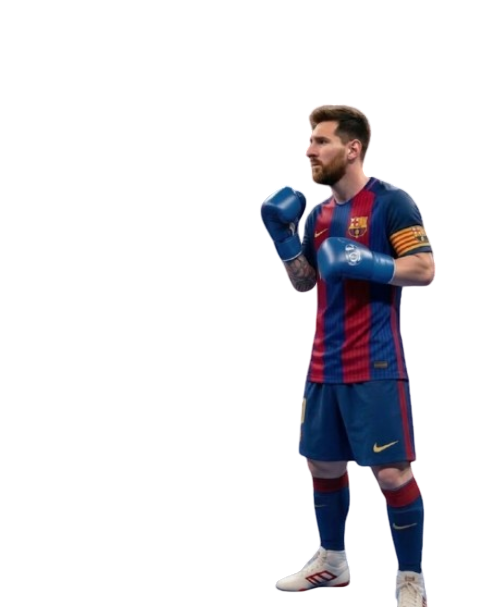
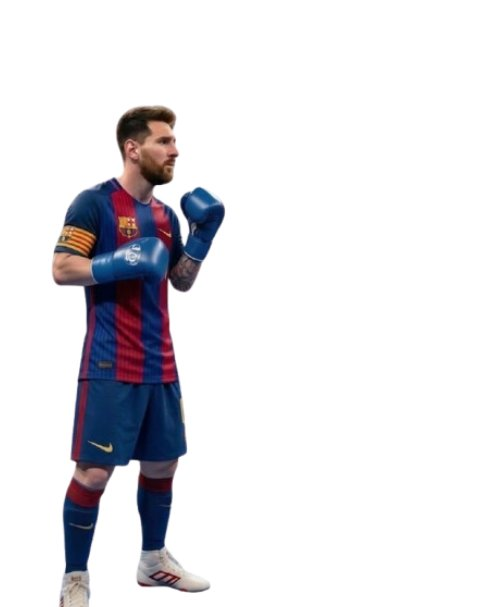
bla bla

diff --git a/core/src/main/java/entity/Fighter.java b/core/src/main/java/entity/Fighter.java
@@ -1,36 +1,45 @@
 package entity;
 
+import com.badlogic.gdx.graphics.Texture;
+import com.badlogic.gdx.graphics.g2d.SpriteBatch;
 import util.Constants;
-import util.Constants.Action;
-import util.Constants.Side;
 
 public class Fighter {
-    private Side side;
-    private Action currentState;
-    private float hp, mana;
+    private Constants.Side side;
+    private Texture texture;
+    private float x, y;
 
-    public Fighter(Side side) {
+    public Fighter(Constants.Side side, String imgPath) {
         this.side = side;
-        this.hp = Constants.MAX_HP; // 20 máu
-        this.mana = 0;
-        this.currentState = Action.IDLE;
+        this.texture = new Texture(imgPath);
+        this.y = Constants.GROUND_Y; // 100f từ Constants
+
+        // P1 bên trái (25% màn hình), P2 bên phải (75% màn hình)
+        if (side == Constants.Side.LEFT) {
+            this.x = Constants.APP_WIDTH * 0.25f - Constants.CHAR_SIZE / 2;
+        } else {
+            this.x = Constants.APP_WIDTH * 0.75f - Constants.CHAR_SIZE / 2;
+        }
     }
 
-    public void update(float delta) {
-        // Tạm thời để trống cho Dev 2 làm logic đếm ngược thời gian đấm
+    public void draw(SpriteBatch batch) {
+        // Nếu là P2 (Bên PHẢI) thì lật ngang ảnh (flipX = true) để nhìn sang TRÁI
+        boolean flipX = (side == Constants.Side.RIGHT);
+
+        // Vẽ với đầy đủ tham số để dùng được tính năng lật ảnh
+        batch.draw(texture,
+            x, y,
+            Constants.CHAR_SIZE, Constants.CHAR_SIZE, // 200x200
+            0, 0,
+            texture.getWidth(), texture.getHeight(),
+            flipX, false);
     }
 
-    public void performAction(Action action) {
-        this.currentState = action;
-        System.out.println(side + " thực hiện: " + action);
+    public void dispose() {
+        texture.dispose();
     }
 
-    public void takeDamage(float damage) {
-        this.hp -= damage;
-        if (this.hp < 0) this.hp = 0;
+    public void performAction(Constants.Action action) {
     }
-
-    // Getters để vẽ UI và tính va chạm
-    public float getHp() { return hp; }
-    public Action getCurrentState() { return currentState; }
 }
+

diff --git a/core/src/main/java/screen/GameScreen.java b/core/src/main/java/screen/GameScreen.java
@@ -1,13 +1,48 @@
 package screen;
 
-import com.badlogic.gdx.Input;
+import com.badlogic.gdx.Gdx;
 import com.badlogic.gdx.ScreenAdapter;
-import controller.P1Controller;
-import controller.P2Controller;
+import com.badlogic.gdx.graphics.GL20;
+import com.badlogic.gdx.graphics.Texture;
+import main.Main;
 import entity.Fighter;
-import input.InputController;
 import util.Constants;
 
 public class GameScreen extends ScreenAdapter {
+    private final Main game;
+    private Texture background;
+    private Fighter p1, p2;
 
+    public GameScreen(Main game) {
+        this.game = game;
+        // Load lại cái nền xịn của ông giáo
+        background = new Texture("images/background/background.jpg");
+
+        // Khởi tạo 2 Ronaldo đối đầu
+        p1 = new Fighter(Constants.Side.LEFT, "images/p1/idle.png");
+        p2 = new Fighter(Constants.Side.RIGHT, "images/p2/idle.png");
+    }
+
+    @Override
+    public void render(float delta) {
+        // Xóa màn hình
+        Gdx.gl.glClear(GL20.GL_COLOR_BUFFER_BIT);
+
+        game.batch.begin();
+        // 1. Vẽ nền trước (Phủ kín màn hình 1280x720)
+        game.batch.draw(background, 0, 0, Constants.APP_WIDTH, Constants.APP_HEIGHT);
+
+        // 2. Vẽ 2 võ sĩ (Tự động đứng đúng chỗ và đối mặt nhau)
+        p1.draw(game.batch);
+        p2.draw(game.batch);
+
+        game.batch.end();
+    }
+
+    @Override
+    public void dispose() {
+        background.dispose();
+        p1.dispose();
+        p2.dispose();
+    }
 }

diff --git a/core/src/main/java/controller/FighterController.java b/core/src/main/java/controller/FighterController.java
@@ -1,5 +1,38 @@
 package controller;
 
-public abstract class FighterController {
+import entity.Fighter;
+import input.InputController;
+import util.Constants;
+import util.Constants.Action;
 
+public abstract class FighterController {
+    protected Fighter fighter;
+    protected InputController input;
+
+    public FighterController(Fighter fighter, InputController input) {
+        this.fighter = fighter;
+        this.input = input;
+    }
+
+    public void update(float delta) {
+        // 1. Cập nhật trạng thái input (đọc phím hoặc nhận dữ liệu từ Camera)
+        input.update(delta);
+
+        // 2. Kiểm tra lệnh và ra lệnh cho Fighter thực hiện
+        // Thứ tự ưu tiên có thể tùy chỉnh: Skill > Punch > Kick...
+        if (input.skill()) {
+            fighter.performAction(Action.SKILL);
+        } else if (input.punch()) {
+            fighter.performAction(Action.PUNCH);
+        } else if (input.kick()) {
+            fighter.performAction(Action.KICK);
+        } else if (input.duck()) {
+            fighter.performAction(Action.DUCK);
+        } else if (input.block()) {
+            fighter.performAction(Action.BLOCK);
+        }
+
+        // 3. Reset trạng thái input để tránh việc bấm 1 lần mà đấm mãi mãi
+        input.reset();
+    }
 }

diff --git a/core/src/main/java/input/KeyboardInput.java b/core/src/main/java/input/KeyboardInput.java
@@ -1,6 +1,28 @@
 package input;
 
-import input.InputController;
+import com.badlogic.gdx.Gdx;
+import com.badlogic.gdx.Input;
 
-public class KeyboardInput  {
+public class KeyboardInput implements InputController {
+    private int kP, kK, kD, kB, kS;
+    private boolean isP, isK, isD, isB, isS;
+
+    public KeyboardInput(int p, int k, int d, int b, int s) {
+        this.kP = p; this.kK = k; this.kD = d; this.kB = b; this.kS = s;
+    }
+
+    @Override public void update(float delta) {
+        isP = Gdx.input.isKeyJustPressed(kP);
+        isK = Gdx.input.isKeyJustPressed(kK);
+        isD = Gdx.input.isKeyPressed(kD);
+        isB = Gdx.input.isKeyPressed(kB);
+        isS = Gdx.input.isKeyJustPressed(kS);
+    }
+
+    @Override public boolean punch() { return isP; }
+    @Override public boolean kick() { return isK; }
+    @Override public boolean duck() { return isD; }
+    @Override public boolean block() { return isB; }
+    @Override public boolean skill() { return isS; }
+    @Override public void reset() { isP = isK = isS = false; }
 }

diff --git a/lwjgl3/src/main/java/com/boxinggame/lwjgl3/Lwjgl3Launcher.java b/lwjgl3/src/main/java/com/boxinggame/lwjgl3/Lwjgl3Launcher.java
@@ -2,7 +2,7 @@ package com.boxinggame.lwjgl3;
 
 import com.badlogic.gdx.backends.lwjgl3.Lwjgl3Application;
 import com.badlogic.gdx.backends.lwjgl3.Lwjgl3ApplicationConfiguration;
-import com.boxinggame.main.Main;
+import main.Main;
 
 /** Launches the desktop (LWJGL3) application. */
 public class Lwjgl3Launcher {
@@ -28,7 +28,7 @@ public class Lwjgl3Launcher {
         //// useful for testing performance, but can also be very stressful to some hardware.
         //// You may also need to configure GPU drivers to fully disable Vsync; this can cause screen tearing.
 
-        configuration.setWindowedMode(640, 480);
+        configuration.setWindowedMode(1280, 720);
         //// You can change these files; they are in lwjgl3/src/main/resources/ .
         //// They can also be loaded from the root of assets/ .
         configuration.setWindowIcon("libgdx128.png", "libgdx64.png", "libgdx32.png", "libgdx16.png");

diff --git a/core/src/main/java/main/Main.java b/core/src/main/java/main/Main.java
@@ -1,0 +1,20 @@
+package main;
+
+import com.badlogic.gdx.Game;
+import com.badlogic.gdx.graphics.g2d.SpriteBatch;
+import screen.GameScreen;
+
+public class Main extends Game {
+    public SpriteBatch batch; // PHẢI LÀ PUBLIC
+
+    @Override
+    public void create() {
+        batch = new SpriteBatch();
+        this.setScreen(new GameScreen(this));
+    }
+
+    @Override
+    public void dispose() {
+        batch.dispose();
+    }
+}

diff --git a/core/src/main/java/controller/P2Controller.java b/core/src/main/java/controller/P2Controller.java
@@ -1,5 +1,10 @@
 package controller;
 
-public class P2Controller extends FighterController {
+import entity.Fighter;
+import input.InputController;
 
+public class P2Controller extends FighterController {
+    public P2Controller(Fighter fighter, InputController input) {
+        super(fighter, input);
+    }
 }

diff --git a/core/src/main/java/controller/P1Controller.java b/core/src/main/java/controller/P1Controller.java
@@ -1,6 +1,10 @@
 package controller;
 
+import entity.Fighter;
+import input.InputController;
 
 public class P1Controller extends FighterController {
-
+    public P1Controller(Fighter fighter, InputController input) {
+        super(fighter, input);
+    }
 }
